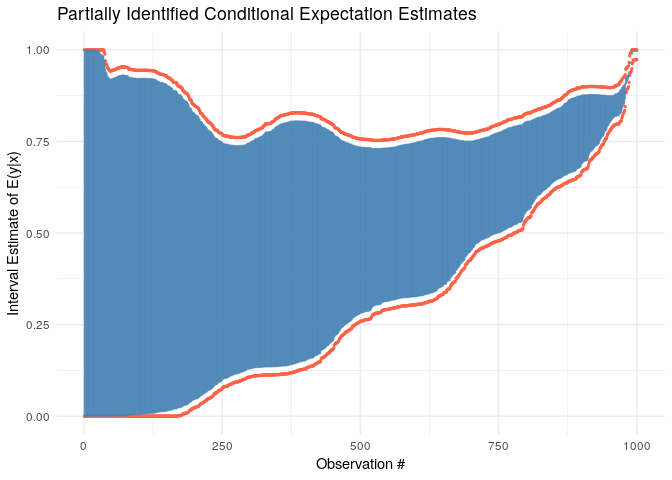
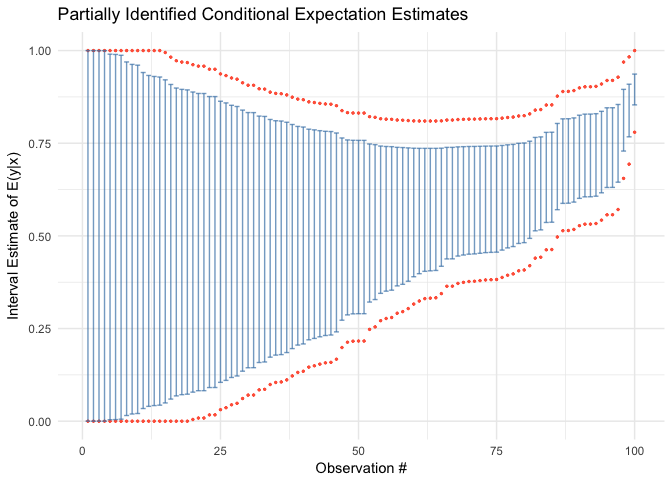
made package require np rather than load it, also updated example

diff --git a/README.md b/README.md
@@ -59,13 +59,8 @@ conditional means.
 ``` r
 ## We generate some fake data
 library(rbounds)
-#> Loading required package: np
-#> Nonparametric Kernel Methods for Mixed Datatypes (version 0.60-9)
-#> [vignette("np_faq",package="np") provides answers to frequently asked questions]
-#> [vignette("np",package="np") an overview]
-#> [vignette("entropy_np",package="np") an overview of entropy-based methods]
 set.seed(42)
-N <- 1000
+N <- 100
 x <- rnorm(N)
 z <- rbinom(N, 1, pnorm(x))
 y <- rbinom(N, 1, pnorm(x))
@@ -75,7 +70,7 @@ df <- data.frame(y, x, z)
 res <- pidoutcomes(y~x, z, df)
 res
 #> Av. Lower CI Av. Lower Bound Av. Upper Bound Av. Upper CI
-#>   0.28917        0.30856         0.81692       0.83827
+#>   0.24089        0.30612         0.82252       0.88991
 
 # We can plot it with a generic plotting method
 plot(res)
